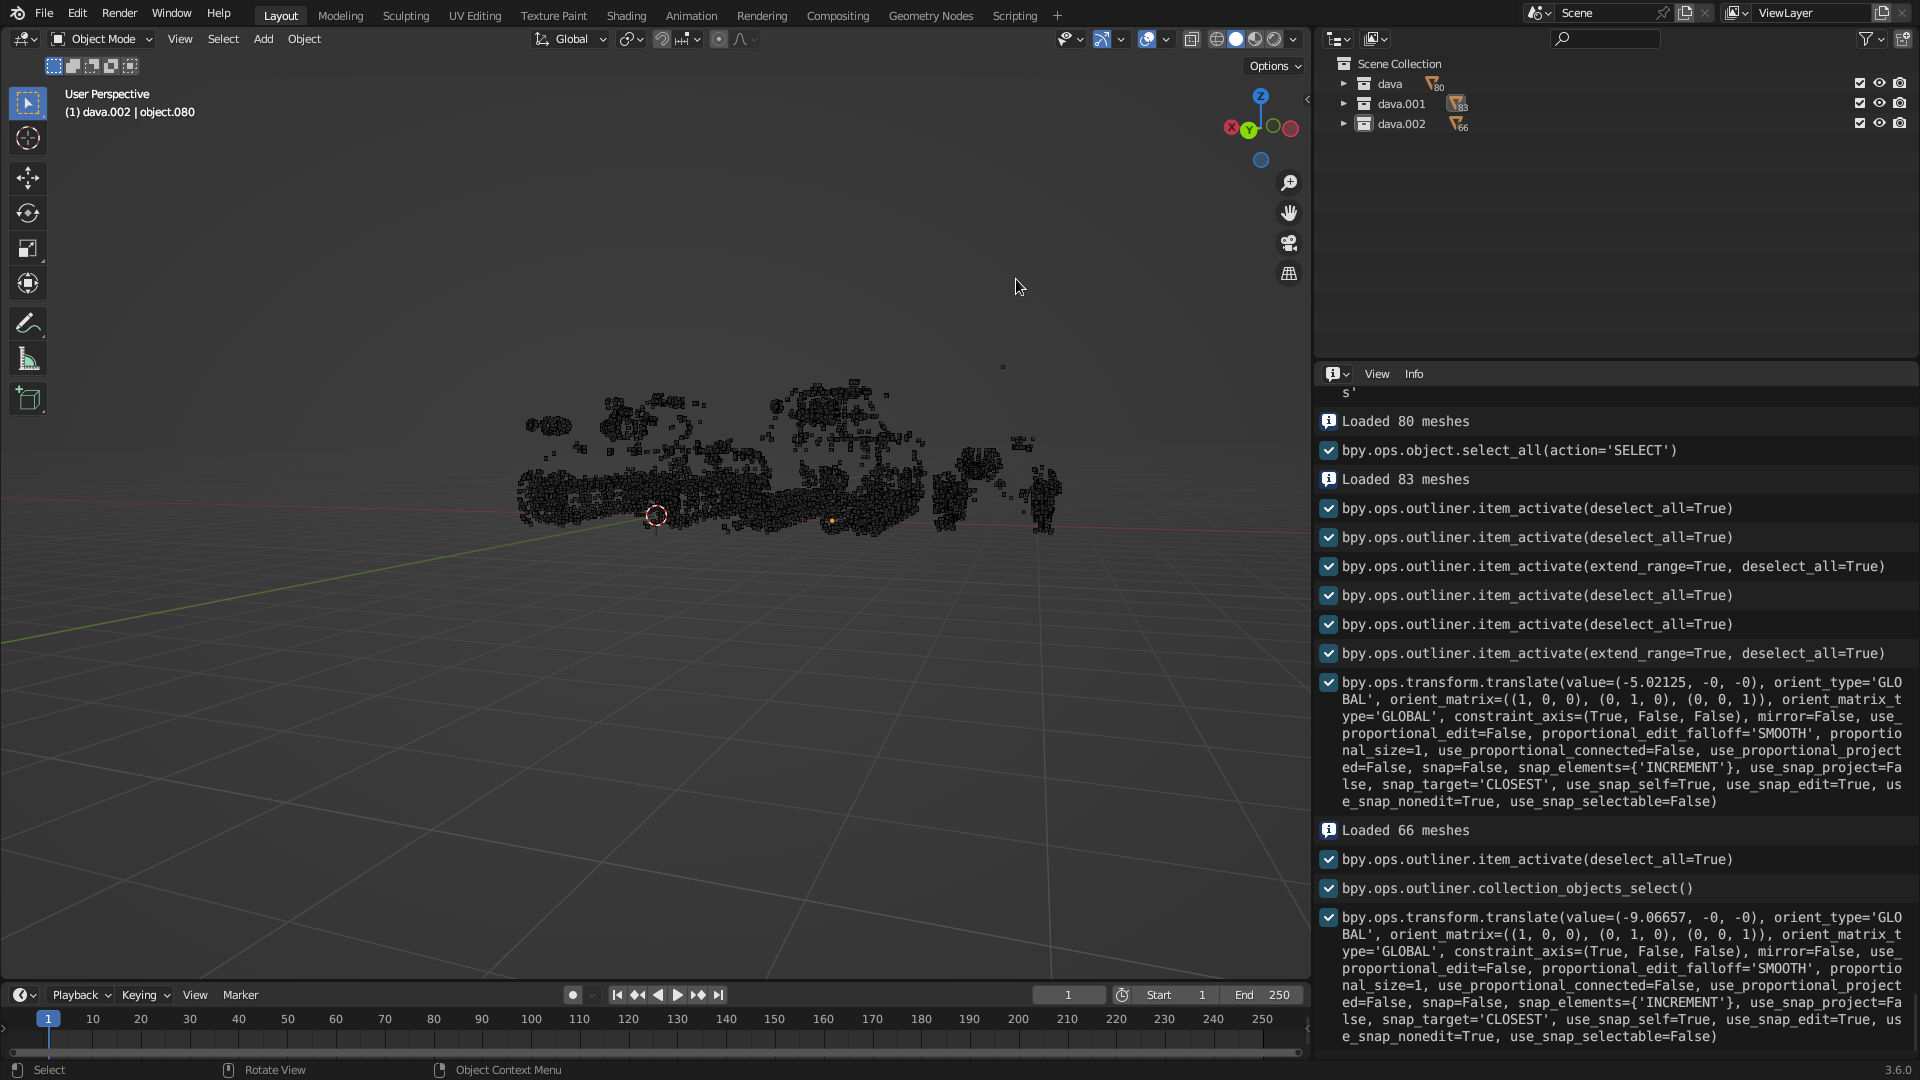
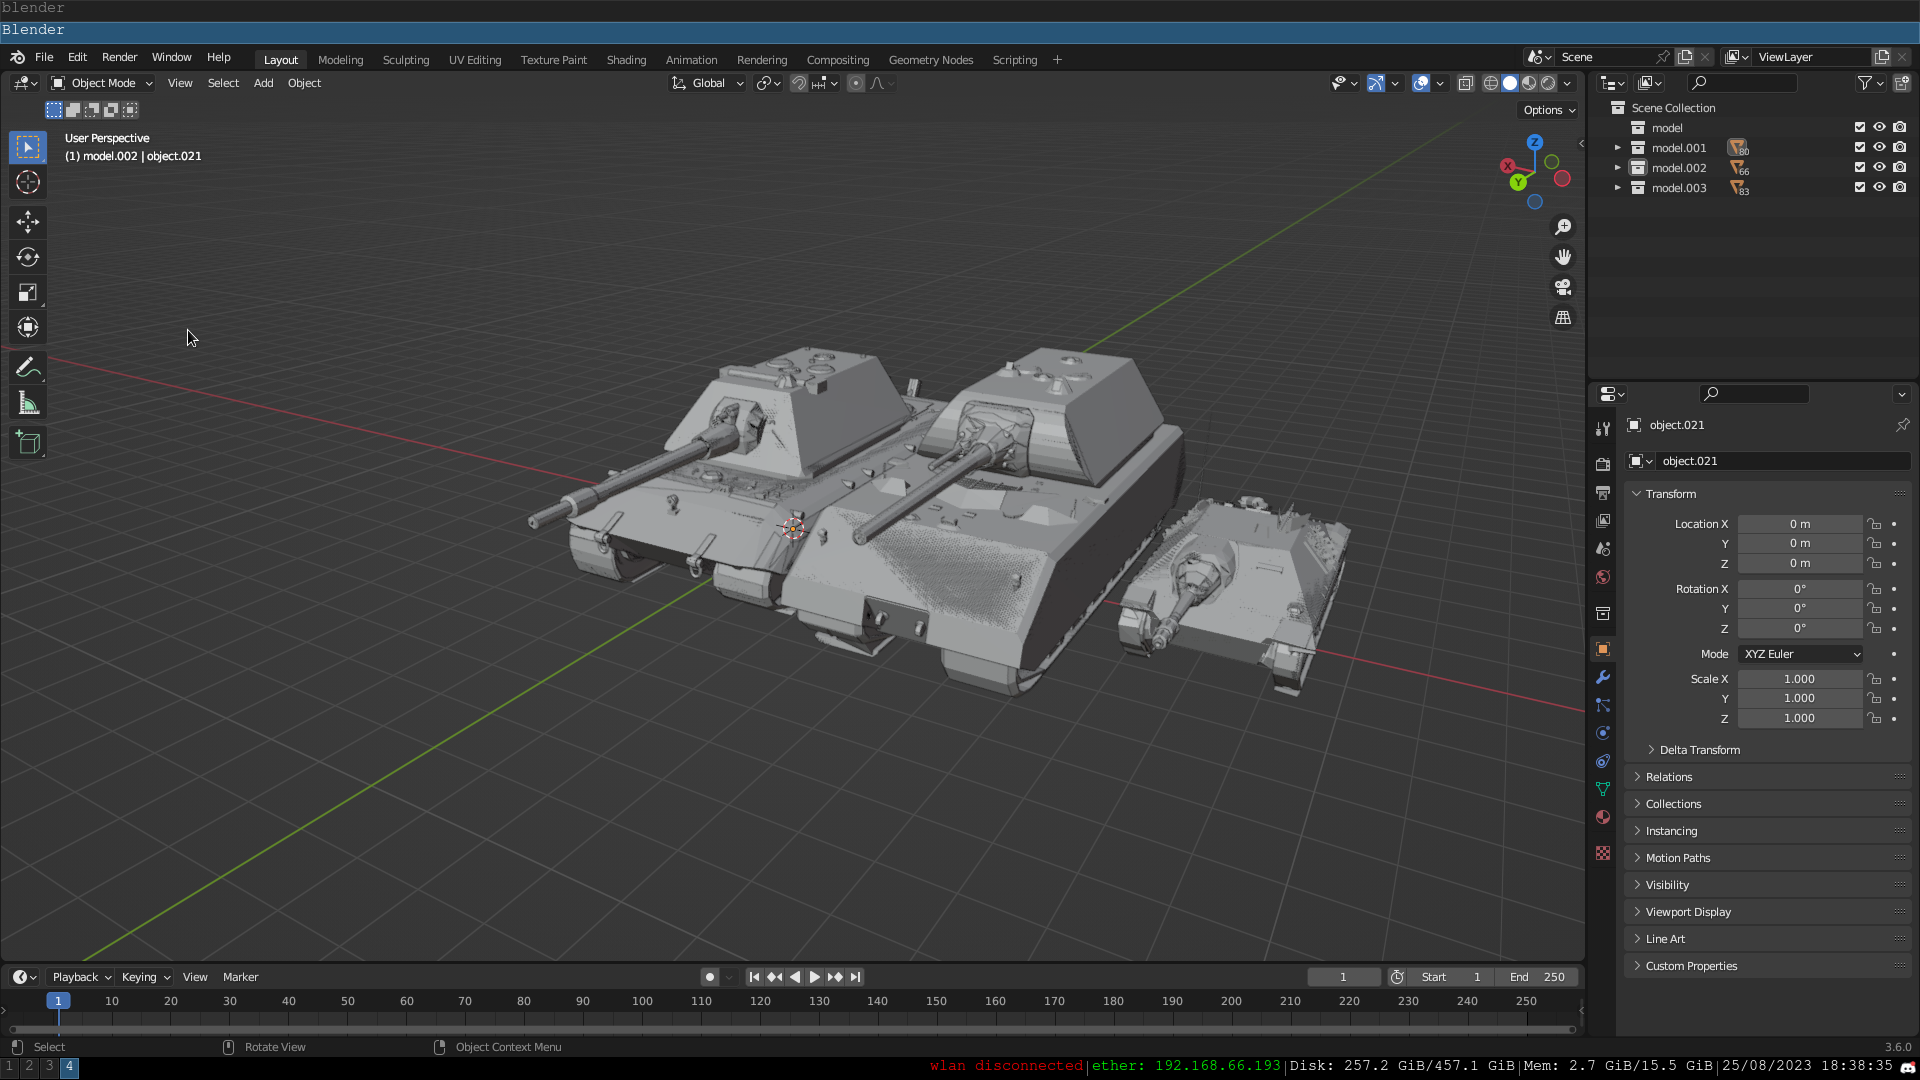
Initial triangle list primitive parsing

diff --git a/blender/io_scene_dava/SCGImporter.py b/blender/io_scene_dava/SCGImporter.py
@@ -15,6 +15,15 @@ from enum import Enum
 from io import BytesIO
 from struct import unpack
 
+class vertexPacking(Enum):
+    NONE = 0
+    DEFAULT = 1
+
+class primitiveType(Enum):
+    TRIANGLELIST = 1
+    TRIANGLESTRIP = 2
+    LINELIST = 10
+
 class vertexTypes(Enum):
     VERTEX = 1
     NORMAL = 1 << 1
@@ -38,17 +47,7 @@ class vertexTypes(Enum):
 
 class SCGImporter:
     def __init__(self):
-        self.meshes = []
-
-    def buildElementArrays(self):
-        elementArrays = []
-        for mesh in self.meshes:
-            elementArray = []
-            vertices = mesh["vertices"]
-            for index in mesh["indices"]:
-                elementArray.append(vertices[index])
-            elementArrays.append(elementArray)
-        return elementArrays
+        self.polygonGroups = []
 
     def parseVertexFormat(self, fmt):
         stride = 0
@@ -98,34 +97,66 @@ class SCGImporter:
 
         return stride
 
+    def parseTriangleList(self, indexStream, primitiveCount):
+        triangleList = []
+        for triI in range(primitiveCount):
+            triangleList.append([
+                int.from_bytes(indexStream.read(2), "little"),
+                int.from_bytes(indexStream.read(2), "little"),
+                int.from_bytes(indexStream.read(2), "little")
+            ])
+        return triangleList
+
+    def parseTriangleStrip(self, stream):
+        pass
+
+    def parseLineList(self, stream):
+        pass
+
+    #TODO: This could go into a separate class
     def parsePolygonGroup(self, node):
         # Parse vertex format
         stride = self.parseVertexFormat(node["vertexFormat"])
 
         #TODO: handle: primitive count, cube texture coords (https://github.com/smile4u/dava.engine/blob/development/Sources/Internal/Render/3D/PolygonGroup.cpp#L173)
 
-        # Carve out vertex data
-        vertices = node["vertices"]
+        #TODO: Handle vertex packing
+        if node["packing"] != vertexPacking.NONE.value:
+            raise ImportError(f"Unknown vertex packing {node['packing']}")
+
+        # Carve out polygon data
+        vertexArray = node["vertices"]
+        indexArray = node["indices"]
+
+        vertices = []
+        edges = []
+        faces = []
+
         logicalSize = stride * node["vertexCount"]
-        realSize = len(vertices)
-        if node["packing"] != 0:
-            raise ImportError("Vertex packing isn't PACKING_NONE!")
-        elif logicalSize != realSize:
-            raise ImportError(f"Invalid vertex array size, logical: {size} real: {len(vertices)}")
-        elif len(vertices) < 1:
+        realSize = len(vertexArray)
+        if logicalSize != realSize:
+            raise ImportError(f"Invalid vertex array size, logical: {logicalSize} real: {realSize}")
+        #XXX: We could probably skip this instead?
+        elif realSize < 1:
             raise ImportError(f"No vertices in this PolygonGroup")
 
-        stream = BytesIO(vertices)
-        vertices = []
+        ## Compose vertex data
+        vertexStream = BytesIO(vertexArray)
+        print(f"rs: {realSize} st: {stride} vss: {vertexStream.getbuffer().nbytes} rs/st: {realSize/stride}")
         for _ in range(node["vertexCount"]):
-            xyz = unpack("fff", stream.read(12))
+            vertex = unpack("fff", vertexStream.read(12))
+            vertices.append(vertex)
+            #TODO: handle the rest of the data properly
+            vertexStream.read(stride-12)
 
-            #TODO: actually handle the other data
-            stream.read(stride - 3*4)
+        indexStream = BytesIO(indexArray)
+        match node["rhi_primitiveType"]:
+            case primitiveType.TRIANGLELIST.value:
+                faces = self.parseTriangleList(indexStream, node["primitiveCount"])
+            case other:
+                raise ImportError(f"Unknown primitve type: {node['rhi_primitiveType']}")
 
-            vertices.append(xyz)
-
-        self.meshes.append({"vertices": vertices, "indices": node["indices"]})
+        self.polygonGroups.append({"vertices": vertices, "edges": edges, "faces": faces})
 
     def importFromFileStream(self, stream):
         # Verify magic

diff --git a/blender/io_scene_dava/__init__.py b/blender/io_scene_dava/__init__.py
@@ -40,17 +40,17 @@ class ImportSCG(Operator, ImportHelper):
 
     def buildCollection(self, importer):
         objCollection = bpy.data.collections.new("model")
-        elementArrays = importer.buildElementArrays()
+        elementArrays = importer.polygonGroups
         for elements in elementArrays:
-            mesh = bpy.data.meshes.new("mesh")
-            mesh.from_pydata(elements, [], [])
+            mesh = bpy.data.meshes.new("PolygonGroup")
+            mesh.from_pydata(elements["vertices"], elements["edges"], elements["faces"])
             mesh.update()
             
             obj = bpy.data.objects.new("object", mesh)
             objCollection.objects.link(obj)
         bpy.context.scene.collection.children.link(objCollection)
 
-        return len(importer.meshes)
+        return len(importer.polygonGroups)
 
     def invoke(self, context, event):
         return ImportHelper.invoke(self, context, event)
@@ -63,7 +63,7 @@ class ImportSCG(Operator, ImportHelper):
 
             meshesLoaded = self.buildCollection(importer)
 
-            self.report({"INFO"}, f"Loaded {meshesLoaded} meshes")
+            self.report({"INFO"}, f"Loaded {meshesLoaded} polygon groups")
 
         return {"FINISHED"}
 
